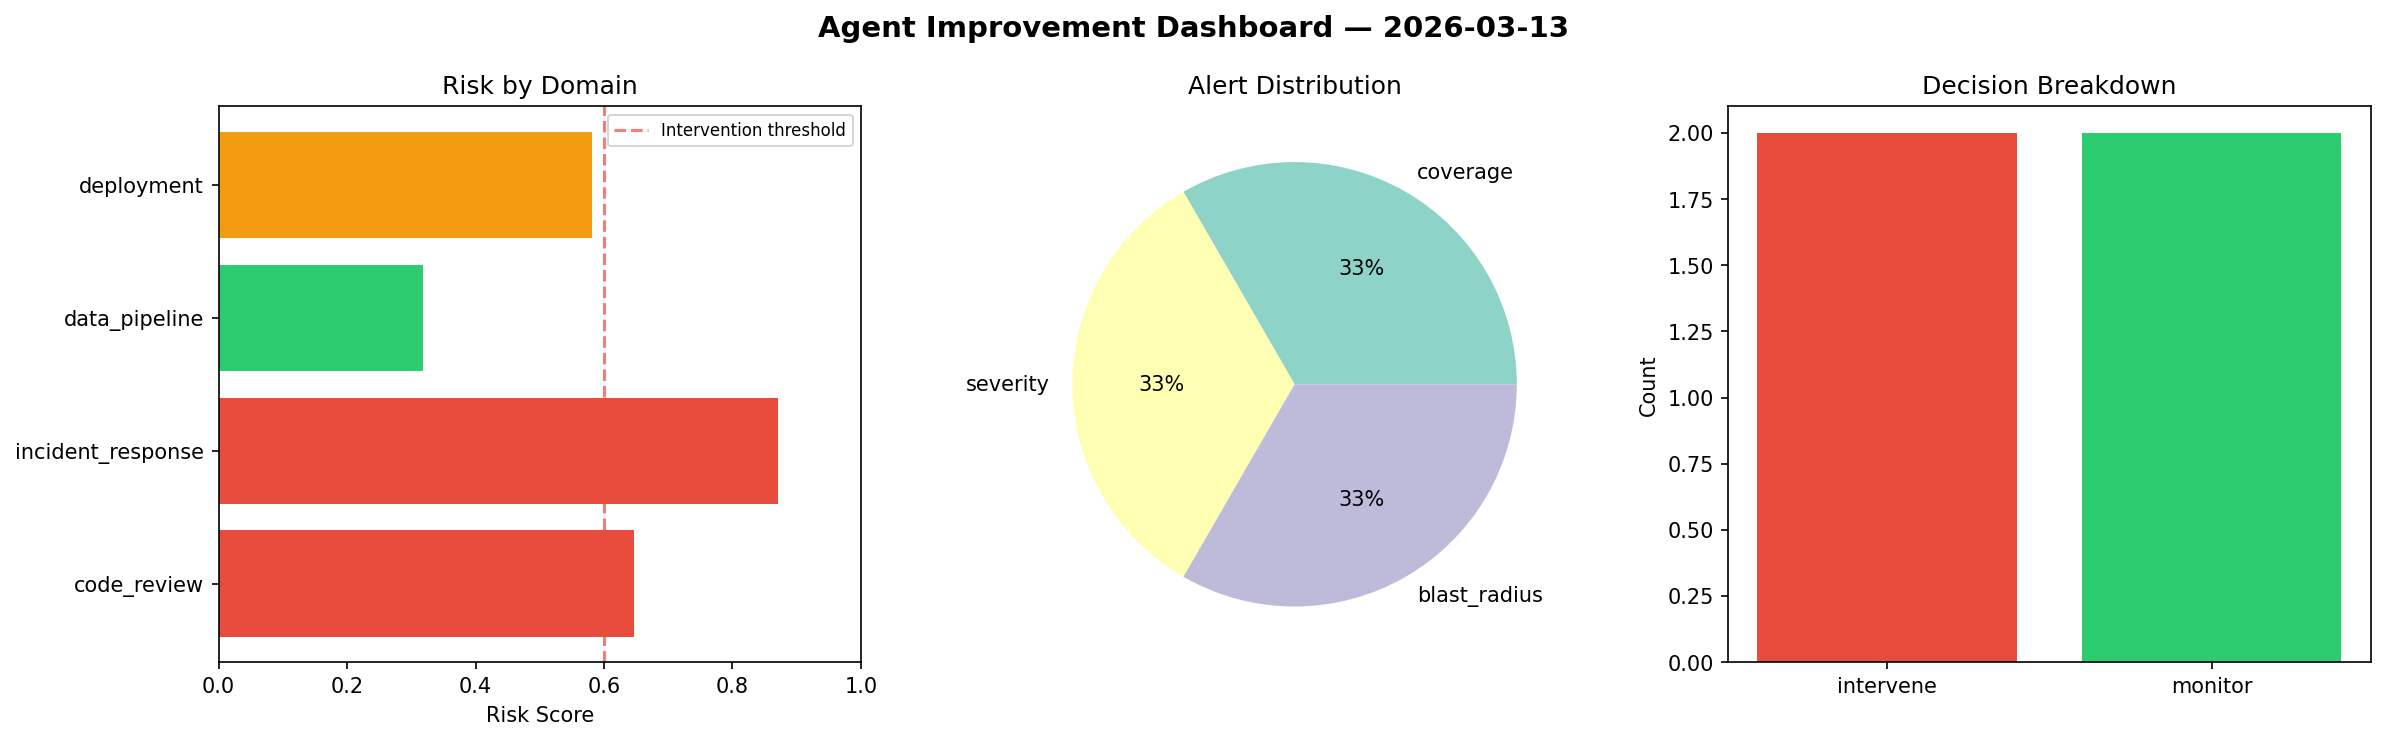
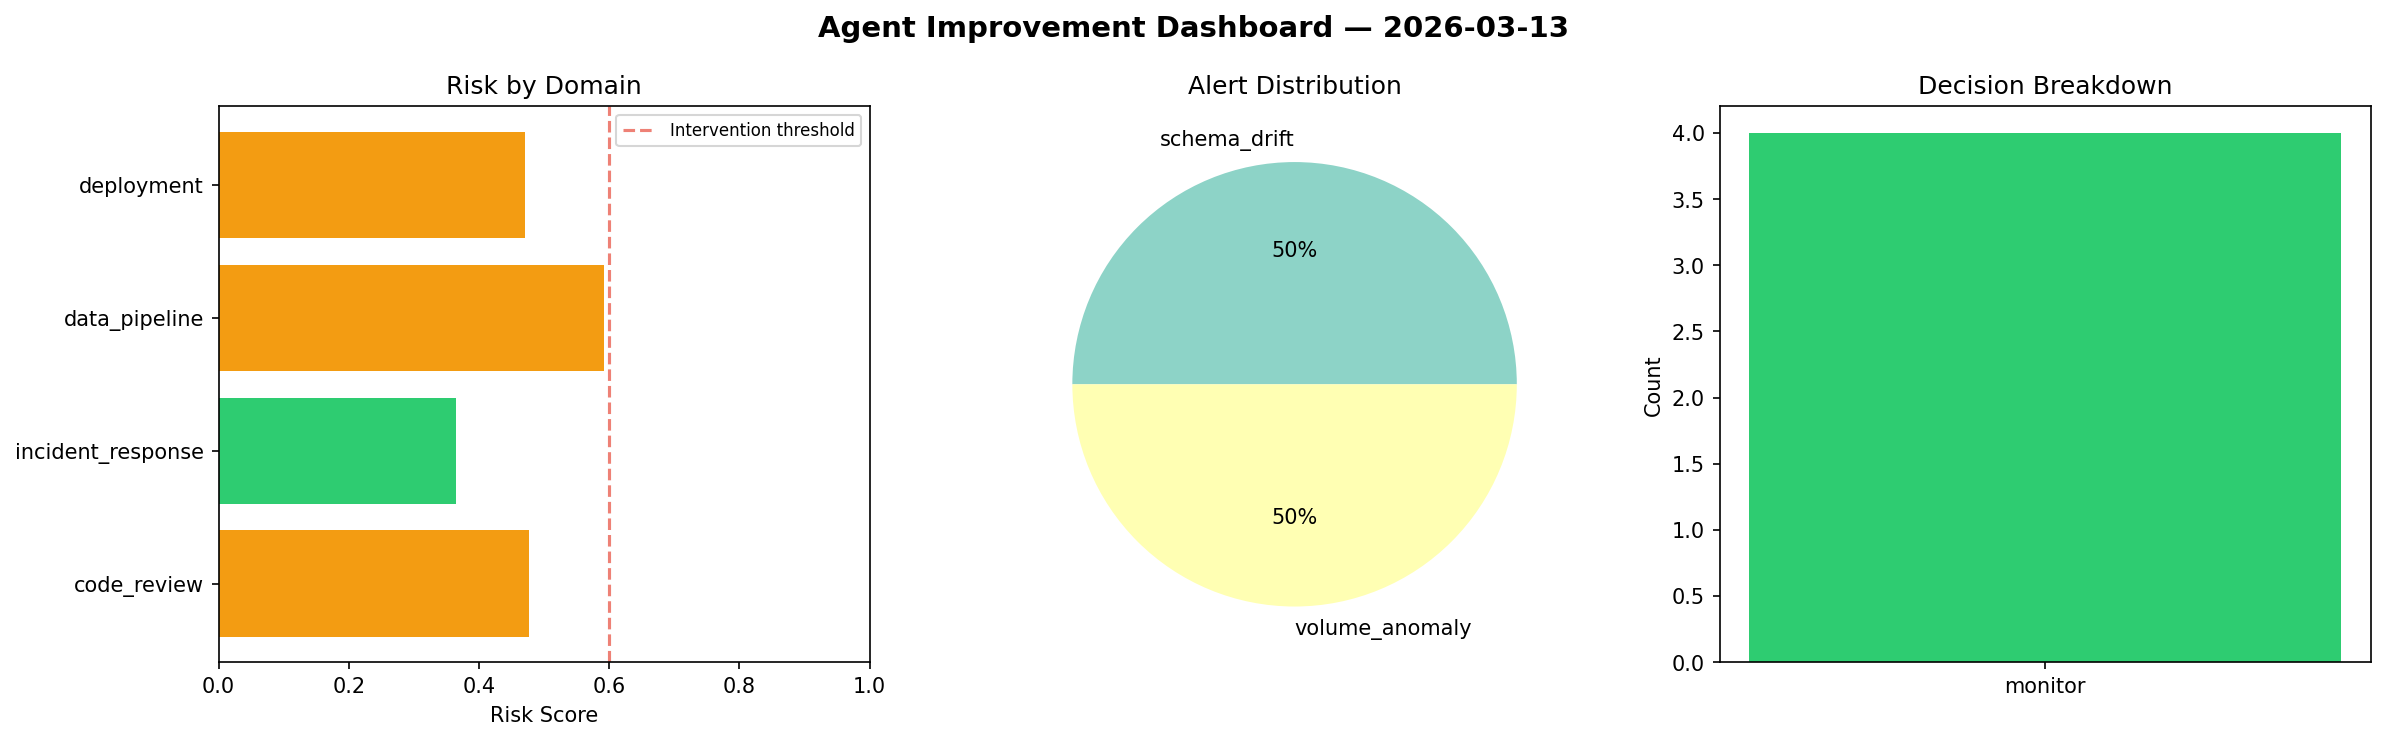
agent-improvement: daily cycle 2026-03-13T15:03

diff --git a/logs/2026-03-13.md b/logs/2026-03-13.md
@@ -1,6 +1,6 @@
 # Agent Improvement Report — 2026-03-13
 
-**Cycle ID:** `82d23b8c` | **Avg Risk:** 0.6039 | **Interventions:** 2/4
+**Cycle ID:** `926a1514` | **Avg Risk:** 0.4761 | **Interventions:** 0/4
 
 ![Dashboard](2026-03-13_dashboard.png)
 
@@ -10,18 +10,18 @@
 
 | Domain | Risk Score | Decision | Alerts |
 |--------|-----------|----------|--------|
-| code_review | 0.6461 | intervene | coverage |
-| incident_response | 0.8703 | intervene | severity, blast_radius |
-| data_pipeline | 0.318 | monitor | none |
-| deployment | 0.5812 | monitor | none |
+| code_review | 0.477 | monitor | none |
+| incident_response | 0.3643 | monitor | none |
+| data_pipeline | 0.5924 | monitor | schema_drift, volume_anomaly |
+| deployment | 0.4706 | monitor | none |
 
 ## Delta vs Yesterday
 
 | Domain | Today | Yesterday | Change |
 |--------|-------|-----------|--------|
-| code_review | 0.6461 | 0.7916 | 📉 -18.4% |
-| incident_response | 0.8703 | 0.5762 | 📈 51.0% |
-| data_pipeline | 0.318 | 0.4148 | 📉 -23.3% |
-| deployment | 0.5812 | 0.4231 | 📈 37.4% |
+| code_review | 0.477 | 0.7916 | 📉 -39.7% |
+| incident_response | 0.3643 | 0.5762 | 📉 -36.8% |
+| data_pipeline | 0.5924 | 0.4148 | 📈 42.8% |
+| deployment | 0.4706 | 0.4231 | 📈 11.2% |
 
 **Refinement:** `{'adjustment': 'maintain', 'trend': 'improving', 'window': 4}`
